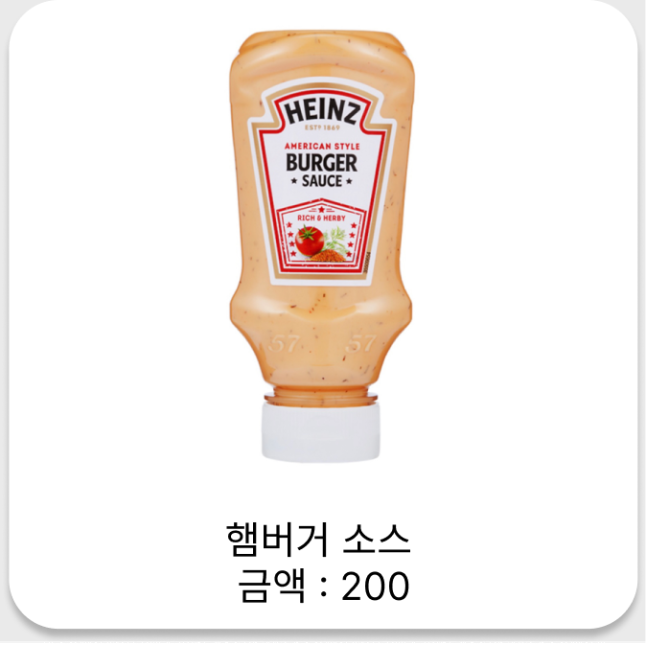
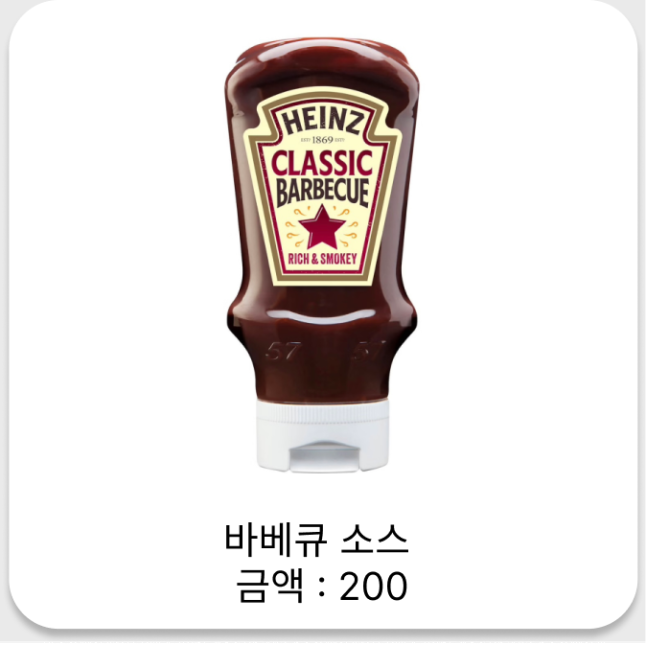
Update: third_page.py sold out

Changed region(s): [[0.3406, 0.031, 0.6502, 0.7442], [0.3406, 0.8062, 0.6502, 0.9302]]

diff --git a/src/gui/third_page.py b/src/gui/third_page.py
@@ -26,8 +26,8 @@ max_menu_limit = 9
 
 custum_menu_list = []
 
-menu_list2button = ["빵", "패티", "치즈", "피클", "양파", "토마토", "양상추", "햄버거 소스", "바베큐 소스"]
-price_list2button = [700, 1200, 400, 500, 500, 600, 500, 200, 200] 
+menu_list2button = ["빵", "패티", "치즈", "피클", "양파", "토마토", "양상추", "바베큐 소스", "햄버거 소스(품절)"]
+price_list2button = [700, 1200, 400, 500, 500, 600, 500, 200, ""] 
 
 
 # 경로 설정
@@ -147,10 +147,28 @@ def create_third_page():
             width=button_width,
             height=button_height
         )
+        # canvas2.create_text(
+        #     positions[8][0] + button_width / 2,  # X 좌표 (9번째 버튼의 가운데)
+        #     positions[8][1] + button_height / 2,  # Y 좌표 (9번째 버튼의 가운데)
+        #     anchor="nw",
+        #     text="Sold Out",
+        #     fill="red",
+        #     font=("Inter", 24 * -1),
+        #     tag="menu_text"
+        # )
+    # canvas2.create_text(
+    #     544.0,
+    #     500,
+    #     anchor="nw",
+    #     text="hello world",
+    #     fill="#000000",
+    #     font=("Inter", 24 * -1),
+    #     tag="menu_text"
+    # )
 
     # window.resizable(False, False)
 
-    ###############################################
+    ##############################################
 
     button_image_6 = PhotoImage(file=relative_to_assets_2("button_5.png"))
     button_6 = Button(
@@ -214,7 +232,8 @@ def create_third_page():
         global max_menu_limit, menu_offset, menu_y_position, custum_menu_list
 
         # 선택된 메뉴 수량 증가
-        menu_count[menu_num] += 1
+        if menu_num != 8:
+            menu_count[menu_num] += 1
 
         print(menu_count)
 
@@ -267,7 +286,7 @@ def create_third_page():
 
         total_text_id = canvas2.create_text(
             81.0,
-            1800.0,
+            1800.0, 
             anchor="nw",
             text="합계 : {}원".format(sum([price_list2button[idx] * menu_count[idx] for idx in custum_menu_list])),
             fill="#000000",

diff --git a/src/gui/selected_menu.py b/src/gui/selected_menu.py
@@ -1,3 +1,3 @@
-page = 3
-menu_index = [2, 1, 4, 3, 6, 7, 5, 0]
-menu_count = [1, 1, 1, 2, 4, 2, 1, 4, 0]
+page = 2
+menu_index = [2]
+menu_count = [2]
